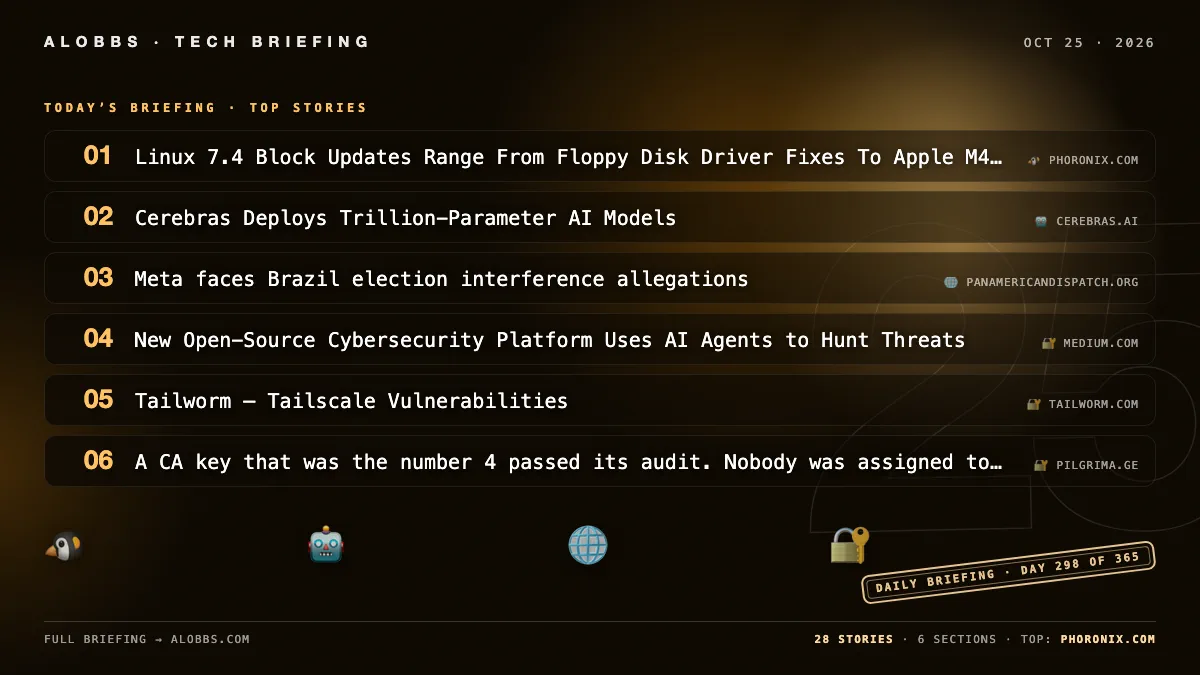
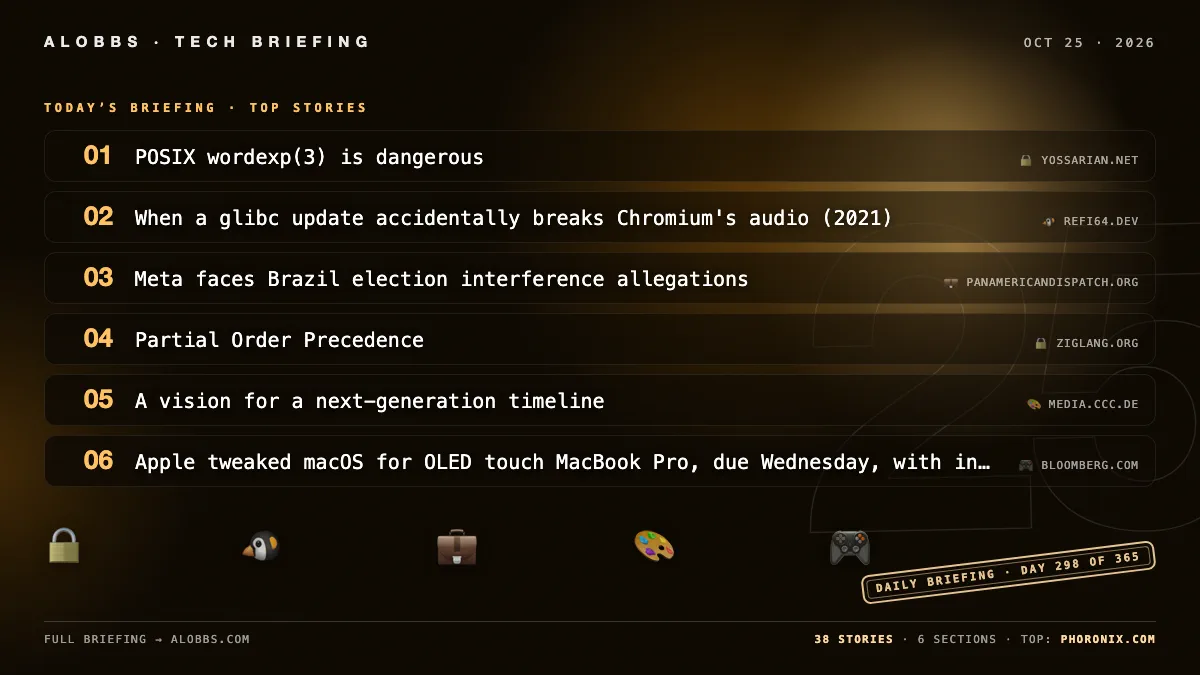
2026-10-25 briefing — 10 new (38 total)

diff --git a/content/post/2026-10-25.md b/content/post/2026-10-25.md
@@ -1,6 +1,6 @@
 ---
 title: "2026-10-25 Briefing"
-date: 2026-10-25 11:49:44.395953
+date: 2026-10-25 15:51:45.969902
 draft: false
 categories: [ "Briefing" ]
 params:
@@ -8,17 +8,23 @@ params:
 cover: "/images/briefings/2026-10-25.webp"
 ---
 
-Linux 7.4 removes Google's C Binder driver as the Rust Binder reaches parity and becomes Android's sole IPC focus, while adding AMD 600-series temp monitoring and GameSir Nova Lite support. AV2 gains momentum: AOM claims ~30% better compression than AV1, with YouTube tests and 2027 streams planned. Blackstone's $2.3B CoreWeave loan is now a blueprint for chip-backed debt, a market Bloomberg says could reach $1T.
+Linux 7.4 removed Google’s C Binder driver as Rust Binder reaches feature parity for Android IPC, while AV2 gains momentum with YouTube tests and Intel’s SVT-AV2 encoder. Apple is expected to unveil a touch-screen MacBook Pro Wednesday, tweaking macOS to adapt to input. Bipartisan lawmakers warn AI leaders’ mixed doom-and-prosperity messaging is a political liability, and Blackstone’s $2.3B CoreWeave loan is fueling chip-backed debt.
 
 <!--more-->
 
-## 🐧 Linux & Hardware
+## 🐧 Linux & Open Source
 
-### Cheap GameSir Nova Lite Gaming Controller Supported By Linux 7.4
+### New Wayland Protocol Proposed For VNC/Remote Software
 
-Linux 7.4's input subsystem changes add support for the cheap GameSir Nova Lite wireless gaming controller via the XPad driver. The patch adds the controller's device ID alongside existing GameSir controllers, enabling force feedback rumble and other functionality on Linux. The GameSir Nova Lite retails for around $22.
+Wayland developer Simon Ser has submitted a merge request for a new ext-transient-output protocol. The protocol is intended to help remote-access software such as VNC servers operate in a Wayland environment.
 
-- [Cheap GameSir Nova Lite Gaming Controller Supported By Linux 7.4](https://www.phoronix.com/news/Linux-7.4-Input) — *phoronix.com*
+- [New Wayland Protocol Proposed For VNC/Remote Software](https://www.phoronix.com/news/Wayland-ext-transient-output) — *phoronix.com*
+
+### Linux 7.4 Sound Changes Merged: "The AI Flood Continues"
+
+Linux 7.4 sound subsystem changes have been merged, with maintainer Takashi Iwai noting that the “AI flood continues” as AI/LLM agents keep producing many patches and uncovering kernel bugs. The cycle includes ALSA core hardening and race fixes, deprecation of OSS sequencer emulation, and new hardware support such as Intel Tigerlake+ SOF IPC4 compressed playback and AMD ACP 7.0/7.F for upcoming Zen 6 platforms. It also adds laptop quirks and new codec drivers from ESS, Nuvoton, Senary, and Qualcomm.
+
+- [Linux 7.4 Sound Changes Merged: "The AI Flood Continues"](https://www.phoronix.com/news/Linux-7.4-Sound) — *phoronix.com*
 
 ### AV2 Video Codec Adoption Talked Up, SVT-AV2 Being Developed
 
@@ -32,25 +38,25 @@ The Realtek rtl8723bs driver has been deleted from the Linux kernel’s staging 
 
 - [Realtek rtl8723bs Driver Deleted From Staging Area In Linux 7.4](https://www.phoronix.com/news/Linux-7.4-Staging) — *phoronix.com*
 
-### AMD 600 Series Chipsets Now Have Temperature Monitoring Support On Linux
-
-Linux 7.4 now supports temperature monitoring for AMD 600 series chipsets, with the patch marked for back-porting to Linux 7.2 and 7.3. The change adds the necessary AMD 600 series PCI IDs to the existing xhci-pci-prom21 driver and was merged as part of the Linux 7.4 USB pull request updates.
-
-- [AMD 600 Series Chipsets Now Have Temperature Monitoring Support On Linux](https://www.phoronix.com/news/AMD-600-Series-Linux-Temp) — *phoronix.com*
-
 ### Google's C Binder Driver Removed With Rust Binder Ready For "Few Billion Devices"
 
 Linus Torvalds merged char/misc changes for the Linux 7.4 kernel that remove Google’s C-written Binder driver. The Rust Binder driver has matured to feature parity, outperforms the C driver in some tests, and is now Google’s sole focus for Android IPC. Greg Kroah-Hartman said the stable Rust Binder will be used going forward in a few billion devices.
 
 - [Google's C Binder Driver Removed With Rust Binder Ready For "Few Billion Devices"](https://www.phoronix.com/news/Linux-7.4-Char-Misc) — *phoronix.com*
 
-### Linux 7.4 Block Updates Range From Floppy Disk Driver Fixes To Apple M4 NVMe Support
+### When a glibc update accidentally breaks Chromium's audio (2021)
 
-Linux 7.4’s block/storage and IO_uring updates have been merged, spanning fixes for legacy floppy and SWIM drivers to new hardware support. The floppy driver received fixes for a possible stack out-of-bounds issue, a 2017 regression, and data races, while the pull request also adds NVMe support for Apple M4 devices.
+In 2021, a glibc update broke Chromium’s YouTube playback when glibc aborted after its futex facility returned an unexpected error. The failure was traced to Chromium’s BPF sandbox rejecting a futex syscall with a custom error code that glibc treated as fatal.
 
-- [Linux 7.4 Block Updates Range From Floppy Disk Driver Fixes To Apple M4 NVMe Support](https://www.phoronix.com/news/Linux-7.4-Block) — *phoronix.com*
+- [When a glibc update accidentally breaks Chromium's audio (2021)](https://refi64.dev/posts/chromium-audio-break.html) — *refi64.dev*
 
-## 🤖 AI & Models
+### Vim Classic
+
+Vim Classic 8.3.0 has been released as the first long-term support fork of Vim 8.x, aiming to provide a stable, dependable editor maintained entirely by humans without generative AI tools. The project also asks for donations to Kuwasha to continue Bram Moolenaar’s legacy of helping children in Uganda.
+
+- [Vim Classic](https://vim-classic.org/) — *vim-classic.org*
+
+## 🤖 AI & Infrastructure
 
 ### Bipartisan lawmakers: AI leaders becoming political liability over prosperity vs. doom claims
 
@@ -58,11 +64,23 @@ Lawmakers and Hill staffers in both parties say AI leaders are becoming a politi
 
 - [Bipartisan lawmakers: AI leaders becoming political liability over prosperity vs. doom claims](https://www.axios.com/2026/10/24/ai-ceos-washington-political-liability) — *axios.com*
 
-### Kimi K3.1 Pro debut scrutinized over alleged undisclosed influencer promotion for Moonshot
+### Blackstone-led $2.3B CoreWeave loan became blueprint for chip-backed debt, on track to $1T market
 
-Moonshot has unveiled Kimi K3.1 Pro, a 3-trillion-parameter model that scores highly on third-party benchmarks and is expected to become the top open-weights model when its weights are released on November 4, 2026. Its debut is drawing scrutiny over allegations that influencers were asked to promote the model on X without disclosing a commercial relationship to Moonshot.
+Blackstone led a $2.3 billion private credit loan to CoreWeave in 2023 after asking basic questions about GPUs and whether AI was real. The deal became a blueprint for chip-backed debt, a market Bloomberg says is on track to reach $1 trillion.
 
-- [Kimi K3.1 Pro debut scrutinized over alleged undisclosed influencer promotion for Moonshot](https://venturebeat.com/technology/moonshots-kimi-k3-1-pro-flirts-with-open-weights-leadership-amid-paid-influencer-scandal-allegations) — *venturebeat.com*
+- [Blackstone-led $2.3B CoreWeave loan became blueprint for chip-backed debt, on track to $1T market](https://www.bloomberg.com/news/articles/2026-10-23/blackstone-bet-on-chips-drove-a-debt-boom-that-s-upending-credit) — *bloomberg.com*
+
+### Want to build a UK datacenter? Please hold while Whitehall transfers you
+
+Building a UK datacenter means navigating responsibilities split across Whitehall departments, with construction, telecoms, and energy handled separately. A minister insists the division is clear, even as developers face being passed between departments.
+
+- [Want to build a UK datacenter? Please hold while Whitehall transfers you](https://www.theregister.com/public-sector/2026/10/25/want-to-build-a-uk-datacenter-please-hold-while-whitehall-transfers-you/5304956) — *theregister.com*
+
+### Nikon photography contest winner loses title after scientists spot signs of AI
+
+Nikon stripped Dr. Ning Xu of its Small World in Motion award after an investigation found he violated competition rules amid concerns his microscopy video was AI-generated. Xu denied generating the video itself but acknowledged using AI in post-processing, and the prize was awarded instead to Nguyen Nam Nhat. Nikon said it will revisit its rules and evaluation procedures for future entries.
+
+- [Nikon photography contest winner loses title after scientists spot signs of AI](https://www.techspot.com/news/114171-nikon-photography-contest-winner-loses-title-after-scientists.html) — *techspot.com*
 
 ### Five Qwen3.8-27B models match Fable 5 Using GVS5H Harness
 
@@ -76,19 +94,33 @@ Cerebras explains how it splits large frontier models across multiple WSE-3T waf
 
 - [Cerebras Deploys Trillion-Parameter AI Models](https://www.cerebras.ai/blog/how-we-deploy-trillion-parameter-frontier-models-on-cerebras) — *cerebras.ai*
 
-## 💰 Business & Funding
+## 🔒 Security & Dev Tools
 
-### Blackstone-led $2.3B CoreWeave loan became blueprint for chip-backed debt, on track to $1T market
+### POSIX wordexp(3) is dangerous
 
-Blackstone led a $2.3 billion private credit loan to CoreWeave in 2023 after asking basic questions about GPUs and whether AI was real. The deal became a blueprint for chip-backed debt, a market Bloomberg says is on track to reach $1 trillion.
+The POSIX `wordexp(3)` API enables shell-style command expansion by default, making it dangerous. Passing `WRDE_NOCMD` is not reliably safe because implementations such as musl and macOS delegate to a shell and have had bypasses. It should not be used on untrusted inputs, even with that flag.
 
-- [Blackstone-led $2.3B CoreWeave loan became blueprint for chip-backed debt, on track to $1T market](https://www.bloomberg.com/news/articles/2026-10-23/blackstone-bet-on-chips-drove-a-debt-boom-that-s-upending-credit) — *bloomberg.com*
+- [POSIX wordexp(3) is dangerous](https://yossarian.net/til/post/posix-wordexp-3-is-dangerous/) — *yossarian.net*
 
-### Baba raises $40M Series A led by FirstMark for AI Medicare/Medicaid care advocacy tools
+### Partial Order Precedence
 
-Baba, an applied AI company that connects Medicare and Medicaid patients to care teams and helps with advocacy tasks, raised $40 million in Series A funding led by FirstMark Capital, with participation from CVS Health Ventures and Valtruis. The company plans to use the funds to expand research, reach more health plans, and accelerate value-based care arrangements.
+Zig has implemented its second-oldest open proposal, issue #114, requiring parentheses for ambiguous operator precedence combinations in the master branch, thanks to contributor CMDRZero. The compiler now rejects expressions where precedence is undefined, while common cases like arithmetic remain parenthesis-free. The change affected only 353 lines in Zig’s million-plus-line codebase.
 
-- [Baba raises $40M Series A led by FirstMark for AI Medicare/Medicaid care advocacy tools](https://www.fiercehealthcare.com/finance/baba-nabs-40m-series-backed-firstmark-capital-and-cvs-health-ventures-medicare-ai-care) — *fiercehealthcare.com*
+- [Partial Order Precedence](https://ziglang.org/devlog/2026/#2026-10-24) — *ziglang.org*
+
+### Farol – a risk map of a pull request for the person who approves it
+
+Farol is a free, open-source CLI and GitHub Action that runs after AI review to assess how risky a pull request is to merge and which files carry that risk. Using static analysis, it provides a verdict and 0–100 risk score based on reach, diff coverage, security findings, contract breaks, and dependency changes, then highlights the riskiest files first. The goal is to focus reviewer attention so low-risk pull requests move quickly while risky changes get closer, line-by-line scrutiny.
+
+- [Farol – a risk map of a pull request for the person who approves it](https://github.com/winnin/farol) — *github.com*
+
+### Tailworm – Tailscale Vulnerabilities
+
+Researchers at Cyberdione Labs audited open-source Tailscale v1.104.2 and Headscale v0.29.5, finding design choices that remove security-in-depth and isolation while marketing the software as secure. Reported issues include root-running Tailscale SSH forwarding that can let an ordinary session replace, dial, or delete privileged resources, plus broader-than-advertised network security boundaries. The researchers say affected infrastructure is vulnerable today and call for rapid remediation.
+
+- [Tailworm – Tailscale Vulnerabilities](https://tailworm.com/) — *tailworm.com*
+
+## 💼 Business & Policy
 
 ### CapitalOS raises $21.9M Series A led by LGVP
 
@@ -102,14 +134,6 @@ London Stock Exchange Group has agreed to acquire New York-based credit intellig
 
 - [LSEG to buy credit data firm Octus from Permira for $3.54B cash](https://www.wsj.com/business/deals/london-stock-exchange-group-agrees-to-buy-octus-from-permira-for-3-5-billion-69361aa5?st=DDte3S&amp;reflink=desktopwebshare_permalink) — *wsj.com*
 
-## 🌐 Platforms & Policy
-
-### Instagram launches Apple TV app for Reels, longer videos, and live shows
-
-Instagram has launched an Apple TV app for watching Reels, longer videos, and live shows, with cross-device resume and content discovery. The app follows Instagram’s earlier launches on Fire TV, Google TV, and Samsung smart TVs. It requires tvOS 26.0 or later.
-
-- [Instagram launches Apple TV app for Reels, longer videos, and live shows](https://www.macrumors.com/2026/10/25/instagram-launches-apple-tv-app/) — *macrumors.com*
-
 ### Meta faces Brazil election interference allegations
 
 In Brazil’s presidential runoff, Lula’s campaign and advocacy groups accused Meta of systematically restricting Lula content and favoring the Bolsonaro camp, including allegations that Instagram/WhatsApp tools unequally favored Sen. Flávio Bolsonaro and that internal messages showed Lula’s accounts were negatively affected while Bolsonaro’s profile and WhatsApp channel were recommended. Brazil’s electoral court ordered Meta to ensure equal treatment and not interfere, while the groups asked the court to enforce fixes within 24 hours, require disclosure of search and AI ranking methods, and apply a daily fine of about $99,000. Meta denied political bias, citing glitches or already-public technical issues, as the UN and US lawmakers raised concerns.
@@ -118,11 +142,17 @@ In Brazil’s presidential runoff, Lula’s campaign and advocacy groups accused
 - [Meta employees say Lula’s accounts restricted in Brazil election: Report](https://www.aljazeera.com/economy/2026/10/16/meta-employees-say-lulas-accounts-restricted-in-brazil-election-report) — *aljazeera.com*
 - [Meta in Brazil runoff: Lula alleges restrictions; court orders no interference; Meta cites glitches](https://www.bloomberg.com/news/articles/2026-10-24/meta-unseats-musk-as-tech-villain-for-lula-in-brazil-s-election) — *bloomberg.com*
 
-### Want to build a UK datacenter? Please hold while Whitehall transfers you
+### I put employees inside S&P 500 market-cap bubbles
 
-Building a UK datacenter means navigating responsibilities split across Whitehall departments, with construction, telecoms, and energy handled separately. A minister insists the division is clear, even as developers face being passed between departments.
+The article presents an interactive bubble chart of S&P 500 companies where bubble size reflects market capitalization by sector and stick figures represent full-time employees, so fill density shows employees per dollar of market cap. It includes selected companies meeting employee and market-cap thresholds plus a few large firms with fewer employees, using latest annual-report headcounts that may lag up to a year.
 
-- [Want to build a UK datacenter? Please hold while Whitehall transfers you](https://www.theregister.com/public-sector/2026/10/25/want-to-build-a-uk-datacenter-please-hold-while-whitehall-transfers-you/5304956) — *theregister.com*
+- [I put employees inside S&P 500 market-cap bubbles](https://bigwhalehunting.com/workforce/) — *bigwhalehunting.com*
+
+### US inequality is getting worse in ways you might not expect
+
+A Pew Research survey released in October 2026 found that about six in ten Americans, including four in ten Republicans, believe U.S. inequality is too high, and growing shares in both parties say the economy needs fundamental rebuilding. Recent federal data show wealth inequality widening: the top 1%’s share rose to 32.5% in the second quarter of 2026 from 31.7% in the first, while the middle class’s share shrank and the top 0.1% pulled further ahead even of other wealthy households. Policy choices around taxation and public spending have driven the four-decade rise, with changes since early 2025 imposing higher costs on everyone except the top 1%, according to the Institute on Taxation and Economic Policy.
+
+- [US inequality is getting worse in ways you might not expect](https://theconversation.com/us-inequality-is-getting-worse-in-ways-you-might-not-expect-294075) — *theconversation.com*
 
 ### France asked ISPs to prepare temporary DNS blocks for major social platforms
 
@@ -136,34 +166,45 @@ Webcomic artists Hazel & Bell say new algorithms and restrictions from payment p
 
 - [Online censorship is crushing indie webcomics](https://xtramagazine.com/culture/online-censorship-indie-webcomics-284463) — *xtramagazine.com*
 
-### Musk admits restricting Ukraine's Starlink
+### "Musk" Documentary Pulled from Almost Every One of 472 Theaters After One Week
 
-Elon Musk admitted that SpaceX intentionally restricted Ukraine’s Starlink access, saying Kyiv violated the service’s terms by using it for offensive drone strikes and that “that loophole was closed.” The Wall Street Journal reported the move capped Ukrainian hardware speeds and hindered drone use; after President Trump reportedly pressed Musk to lift the restrictions, President Volodymyr Zelensky confirmed Starlink speeds had been restored.
+Alex Gibney’s documentary “Musk” has been pulled from almost all of the 472 theaters it expanded to last Friday, about a week after its October 9 release in four theaters. The film is now playing in only a few locations at odd times, and some ticketholders reported showings were canceled without warning.
 
-- [Musk admits SpaceX restricted Ukraine's Starlink: "That loophole was closed"](https://www.mediaite.com/media/news/elon-musk-admits-spacex-purposely-restricted-ukraines-starlink-access-in-war-with-russia-that-loophole-was-closed/) — *mediaite.com*
-- [Elon Musk says he was behind restricting Ukraine's Starlink speed](https://www.chicagotribune.com/2026/10/24/musk-behind-starlink-speed-restriction-in-ukraine/) — *chicagotribune.com*
+- ["Musk" Documentary Pulled from Almost Every One of 472 Theaters After One Week](https://www.showbiz411.com/2026/10/23/controversial-musk-documentary-pulled-from-almost-every-one-of-472-theaters-after-one-week-by-newly-sold-bleecker-street-films) — *showbiz411.com*
 
-## 🔐 Security & Privacy
+## 🎮 Games & Hardware
 
-### New Open-Source Cybersecurity Platform Uses AI Agents to Hunt Threats
+### Cheap GameSir Nova Lite Gaming Controller Supported By Linux 7.4
 
-The article is titled “New Open-Source Cybersecurity Platform Uses AI Agents to Hunt Threats,” but its body content is unavailable because JavaScript and cookies are required. No further details about the platform, its features, or its developers are provided.
+Linux 7.4's input subsystem changes add support for the cheap GameSir Nova Lite wireless gaming controller via the XPad driver. The patch adds the controller's device ID alongside existing GameSir controllers, enabling force feedback rumble and other functionality on Linux. The GameSir Nova Lite retails for around $22.
 
-- [New Open-Source Cybersecurity Platform Uses AI Agents to Hunt Threats](https://medium.com/@ai_news/argus-might-be-one-of-the-most-impressive-open-source-cybersecurity-projects-released-this-year-118043bd0c8c) — *medium.com*
+- [Cheap GameSir Nova Lite Gaming Controller Supported By Linux 7.4](https://www.phoronix.com/news/Linux-7.4-Input) — *phoronix.com*
 
-### A CA key that was the number 4 passed its audit. Nobody was assigned to check it
+### Apple tweaked macOS for OLED touch MacBook Pro, due Wednesday, with interface adapting to last input
 
-A flaw in eMudhra’s April 2025 key ceremony created weak duplicate certificate-authority keys alongside its intended strong keys, and certificates built on the weak keys chained to a root trusted by Firefox, Chrome, Apple and Microsoft. The error surfaced when revocation lists signed with the strong keys failed signature checks, and eMudhra’s fix was to use the weak keys that matched the certificates. The key numbered 4 passed its audit even though no one had been assigned to check it.
+Apple is expected to unveil a touch-screen MacBook Pro on Wednesday, marking a major reversal after two decades of resistance. The macOS interface has been tweaked to adapt dynamically depending on whether the touch screen or trackpad was last used, while Apple is also rolling out a retail inventory tool and making executive changes in its hardware division.
 
-- [A CA key that was the number 4 passed its audit. Nobody was assigned to check it](https://pilgrima.ge/p/someone-else-checked) — *pilgrima.ge*
+- [Apple tweaked macOS for OLED touch MacBook Pro, due Wednesday, with interface adapting to last input](https://www.bloomberg.com/news/newsletters/2026-10-25/apple-to-unveil-touch-screen-macbook-pro-executive-promotions-in-box-checker?accessToken=eyJhbGciOiJIUzI1NiIsInR5cCI6IkpXVCJ9.eyJzb3VyY2UiOiJTdWJzY3JpYmVyR2lmdGVkQXJ0aWNsZSIsImlhdCI6MTc5MjkzNzUyMiwiZXhwIjoxNzkzNTQyMzIyLCJhcnRpY2xlSWQiOiJUTkdVVzFLR0lGUVAwMCIsImJjb25uZWN0SWQiOiJDNEVEQ0FFMUZBMDU0MEJFQTI0QTlGMjExQzFFOTA4MCJ9.oFJ_0EAST-knSAxKOS4texLXpPwXxHNMAnkwhZBjOEU) — *bloomberg.com*
 
-### Tailworm – Tailscale Vulnerabilities
+### The Slurptop: A home-built luggable that runs on power tool batteries
 
-Researchers at Cyberdione Labs audited open-source Tailscale v1.104.2 and Headscale v0.29.5, finding design choices that remove security-in-depth and isolation while marketing the software as secure. Reported issues include root-running Tailscale SSH forwarding that can let an ordinary session replace, dial, or delete privileged resources, plus broader-than-advertised network security boundaries. The researchers say affected infrastructure is vulnerable today and call for rapid remediation.
+The Slurptop is a home-built luggable x86 computer designed to run on 24V power tool batteries, using a boost/buck converter to power a mini PC with a laptop-class processor and integrated graphics. The builder modeled components in Blender before assembly and aimed for a laptop-like form factor with a Cyberpunk aesthetic. The project followed earlier Raspberry Pi-based Writerdeck and Cyberdeck builds and served as an alternative to buying a modern laptop.
 
-- [Tailworm – Tailscale Vulnerabilities](https://tailworm.com/) — *tailworm.com*
+- [The Slurptop: A home-built luggable that runs on power tool batteries](https://slurpburgers.com/slurpbuilds/the-slurptop/) — *slurpburgers.com*
 
-## 🧪 Science & Culture
+### fheroes2: A recreation of Heroes of Might and Magic II game engine
+
+fheroes2 is an open-source, multiplatform recreation of the Heroes of Might and Magic II game engine, written from scratch. It aims to reproduce the original game while adding significant improvements to gameplay, graphics, AI, and user interface, including high-resolution support and numerous fixes.
+
+- [fheroes2: A recreation of Heroes of Might and Magic II game engine](https://github.com/ihhub/fheroes2) — *github.com*
+
+## 🎨 Culture & Science
+
+### Instagram launches Apple TV app for Reels, longer videos, and live shows
+
+Instagram has launched an Apple TV app for watching Reels, longer videos, and live shows, with cross-device resume and content discovery. The app follows Instagram’s earlier launches on Fire TV, Google TV, and Samsung smart TVs. It requires tvOS 26.0 or later.
+
+- [Instagram launches Apple TV app for Reels, longer videos, and live shows](https://www.macrumors.com/2026/10/25/instagram-launches-apple-tv-app/) — *macrumors.com*
 
 ### Reg readers pick 'Binface' as name for UK space cleanup mission
 
@@ -171,11 +212,35 @@ The Register’s readers have landed on “Binface” as the name for a UK space
 
 - [Reg readers pick 'Binface' as name for UK space cleanup mission](https://www.theregister.com/offbeat/2026/10/25/reg-readers-land-on-binface-as-name-for-uk-space-cleanup-mission/5305144) — *theregister.com*
 
-### Nikon photography contest winner loses title after scientists spot signs of AI
+### A vision for a next-generation timeline
 
-Nikon stripped Dr. Ning Xu of its Small World in Motion award after an investigation found he violated competition rules amid concerns his microscopy video was AI-generated. Xu denied generating the video itself but acknowledged using AI in post-processing, and the prize was awarded instead to Nguyen Nam Nhat. Nikon said it will revisit its rules and evaluation procedures for future entries.
+The article discusses compromises in the Matrix protocol’s chat timeline caused by federation, including inconsistent ordering between sync and history, inability to jump to pinned messages from before joining, and unclear behavior when joining a room the server previously left. It says a solution exists but will take time, outlining steps such as stitched ordering, timeline fragments, and state DAGs for a next-generation timeline.
 
-- [Nikon photography contest winner loses title after scientists spot signs of AI](https://www.techspot.com/news/114171-nikon-photography-contest-winner-loses-title-after-scientists.html) — *techspot.com*
+- [A vision for a next-generation timeline](https://media.ccc.de/v/matrix-conference-2026-99070-a-vision-for-a-next-generation-timeline) — *media.ccc.de*
+
+### A Few Thoughts on Intensity
+
+The author argues that intensity—a culture of extreme focus, speed, and high standards—is the most important trait of exceptional startups. He supports this with observations from successful companies, the difficulty of the startup journey, and examples from founders and operators such as Steve Jobs, Elon Musk, and Sam Altman. Intensity is described as a force multiplier across other traits and essential for building great startups and lives.
+
+- [A Few Thoughts on Intensity](https://www.tylerhogge.com/blog/a-few-thoughts-on-intensity/) — *tylerhogge.com*
+
+### The Lego group reveals collaboration with Daft Punk
+
+The LEGO Group has confirmed a partnership with Daft Punk to bring the French electronic duo into the LEGO universe. A fan-submitted LEGO Ideas project, “Daft Punk Concert,” reached 10,000 supporters and was selected for product development. Fan designer RobotRock will collaborate with LEGO designers on the final set.
+
+- [The Lego group reveals collaboration with Daft Punk](https://www.lego.com/en-us/categories/adults-welcome/article/daft-punk) — *lego.com*
+
+### Challenge Is Gone
+
+The author reflects that his lifelong unconscious goal was to challenge himself with engineering problems, but he lost interest once a product worked because he cared about proving he could solve it, not about popularity or profit. Now 40, he says AI has removed that challenge by enabling him to solve any engineering problem he can think of. He describes this as liberating, shifting his focus from whether he can build something to what he should build.
+
+- [Challenge Is Gone](https://blog.alxgsv.com/challenge-is-gone/) — *blog.alxgsv.com*
+
+### Tool book of a Nuremberg knight from 1505
+
+The article describes the 1505 tool book of Nuremberg patrician and knight Martin Löffelholz, which records devices such as interchangeable drills, a vise workbench, a disassembled crossbow, and a mercury-filled cradle. Though the 154-page codex is held in Kraków, digitized, and in the public domain, it has never been fully transcribed, edited, or translated. Engineer Dirk Schornstein is now leading a page-by-page project, using AI-assisted drafts plus editorial review, to interpret every page and invites public help.
+
+- [Tool book of a Nuremberg knight from 1505](https://loeffelholz-codex.org/en/) — *loeffelholz-codex.org*
 
 ### Weight-loss drug reduces sleep apnea in two late-stage trials
 
@@ -188,9 +253,3 @@ In two phase 3 trials, once-weekly retatrutide—a triple receptor agonist—red
 The provided content for “Talking with strangers is surprisingly informative” contains only a notice that cookies must be enabled for pubmed.ncbi.nlm.nih.gov, with no article text. As a result, no substantive summary of the article’s findings can be given.
 
 - [Talking with strangers is surprisingly informative](https://pubmed.ncbi.nlm.nih.gov/35972959/) — *pubmed.ncbi.nlm.nih.gov*
-
-### "Musk" Documentary Pulled from Almost Every One of 472 Theaters After One Week
-
-Alex Gibney’s documentary “Musk” has been pulled from almost all of the 472 theaters it expanded to last Friday, about a week after its October 9 release in four theaters. The film is now playing in only a few locations at odd times, and some ticketholders reported showings were canceled without warning.
-
-- ["Musk" Documentary Pulled from Almost Every One of 472 Theaters After One Week](https://www.showbiz411.com/2026/10/23/controversial-musk-documentary-pulled-from-almost-every-one-of-472-theaters-after-one-week-by-newly-sold-bleecker-street-films) — *showbiz411.com*
